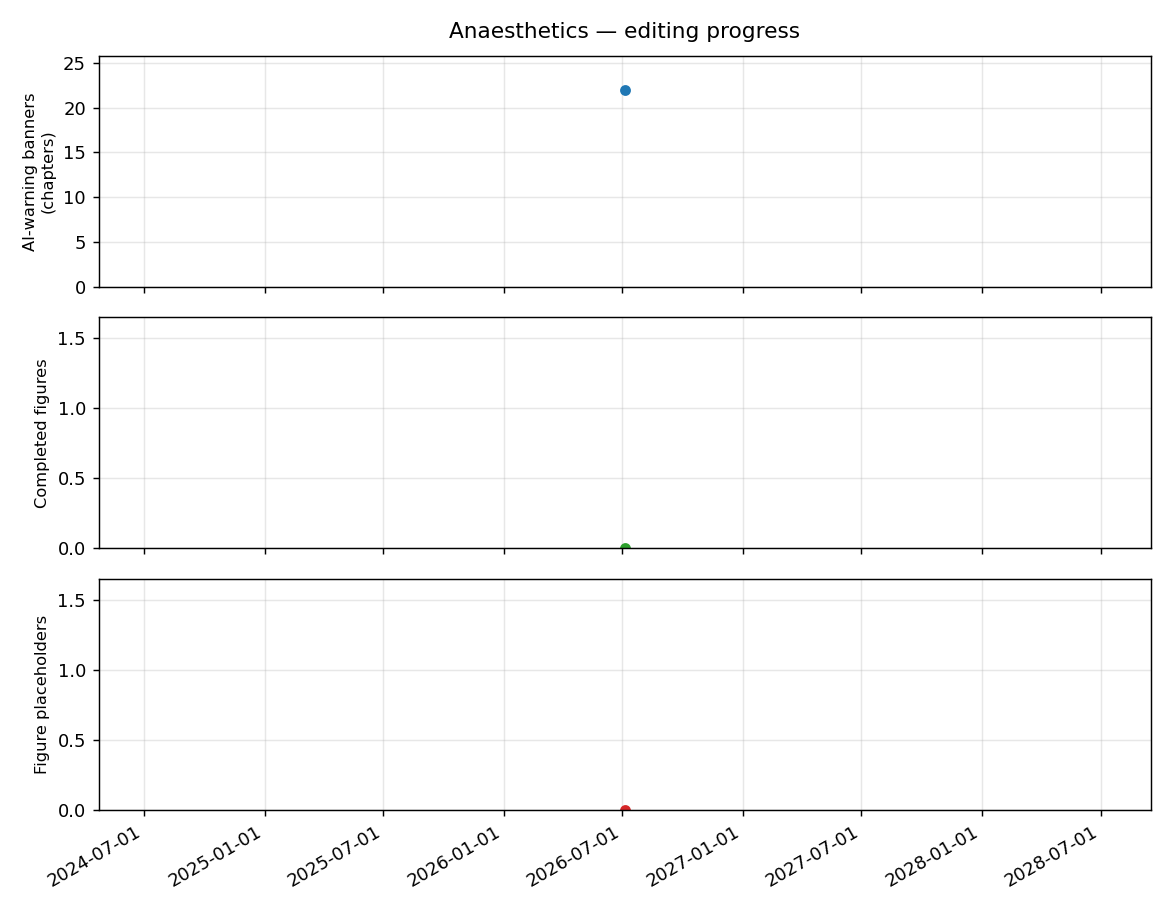
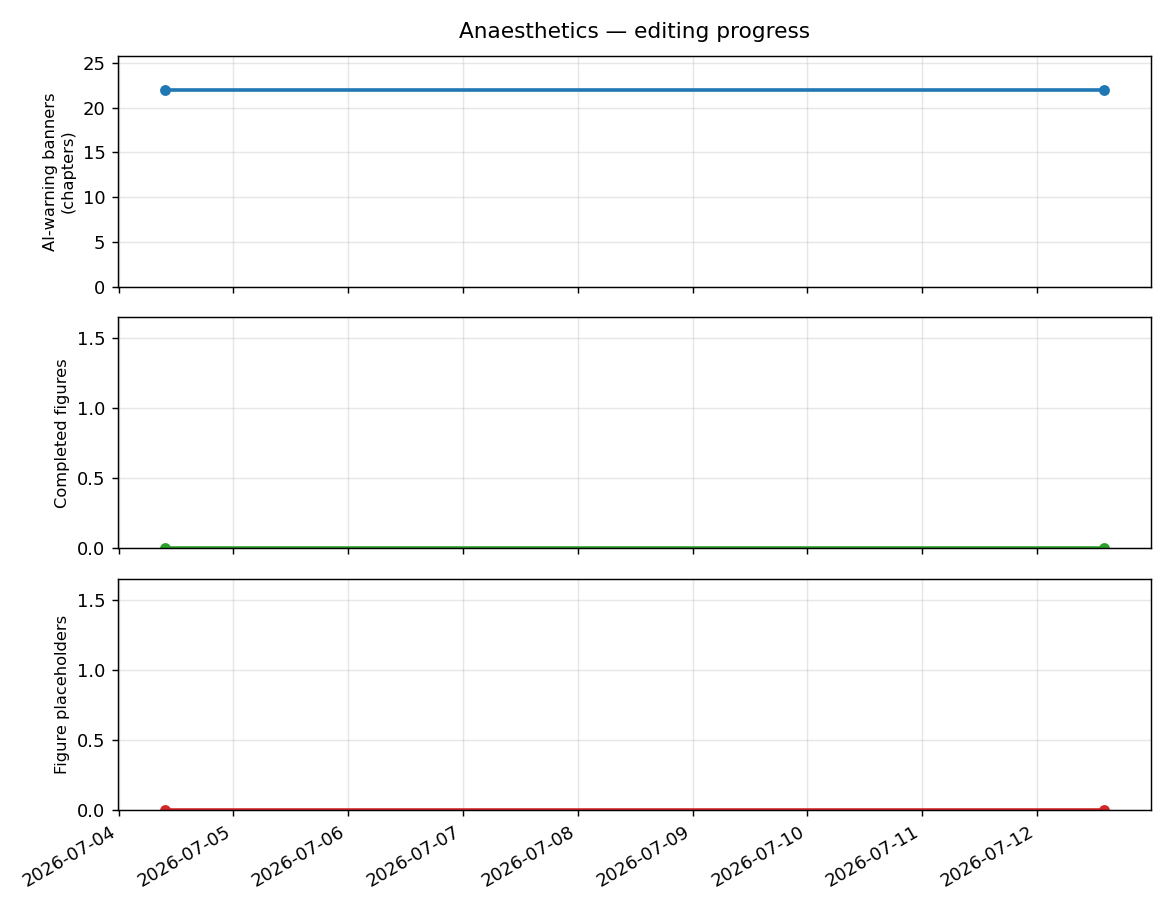
Cache-bust Progress plot image URL
Append a data-derived ?v= token so browsers/CDNs refetch the plot when
counts change.

diff --git a/docs/progress.md b/docs/progress.md
@@ -8,9 +8,9 @@ nav_order: 999
 
 _Auto-generated from the publication git history of the Anaesthetics site. This page tracks editing progress and is **not** clinical content._
 
-Generated 2026-07-12 14:55 · 1 commit(s) tracked (2026-07-04 → 2026-07-04).
+Generated 2026-07-12 16:13 · 2 commit(s) tracked (2026-07-04 → 2026-07-12).
 
-![Anaesthetics editing progress over time]({{ '/docs/img/progress_anaes.png' | relative_url }})
+![Anaesthetics editing progress over time]({{ '/docs/img/progress_anaes.png' | relative_url }}?v=2-22-0-0)
 
 ## Latest counts
 